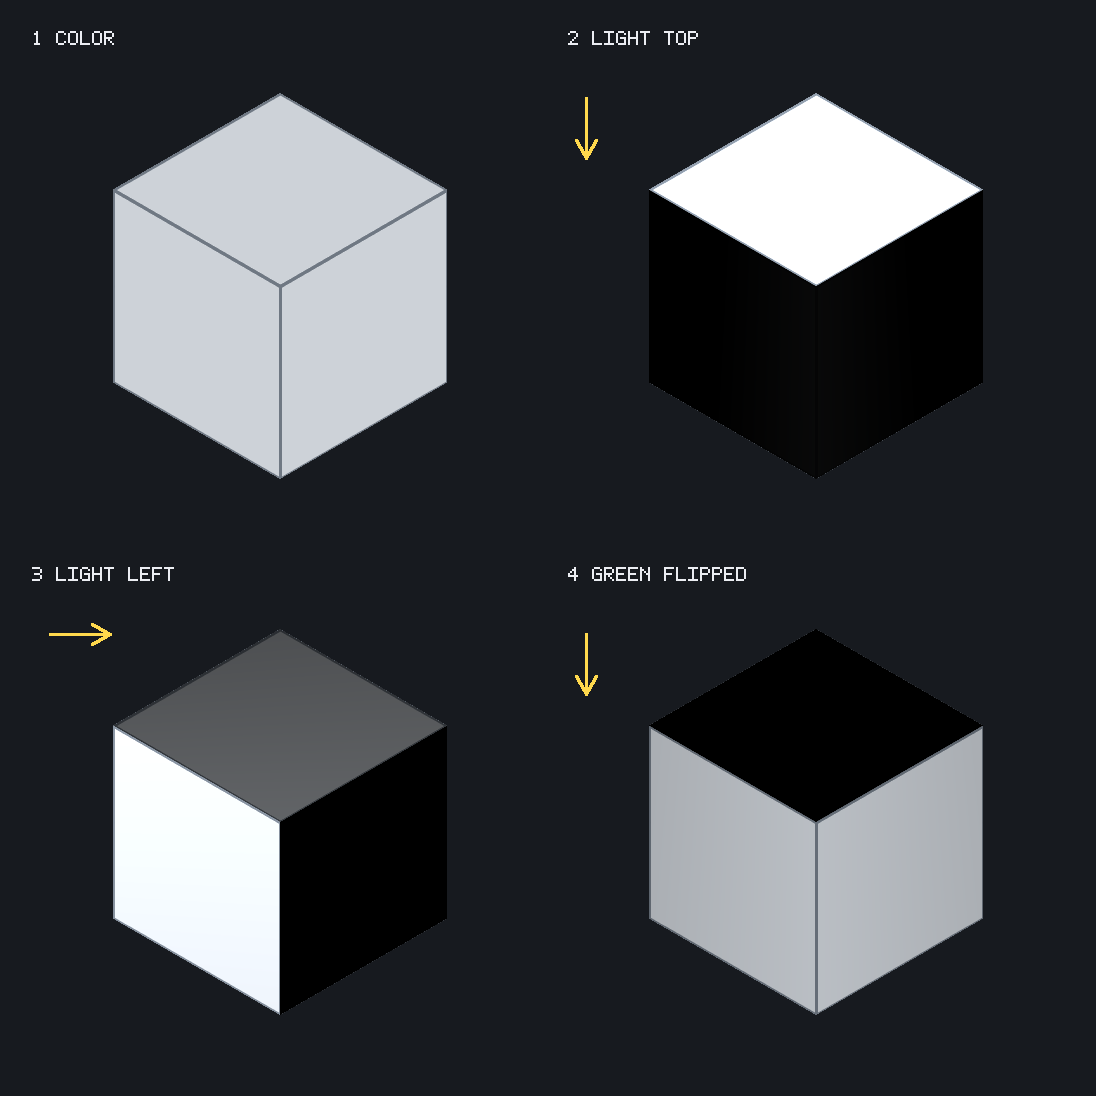
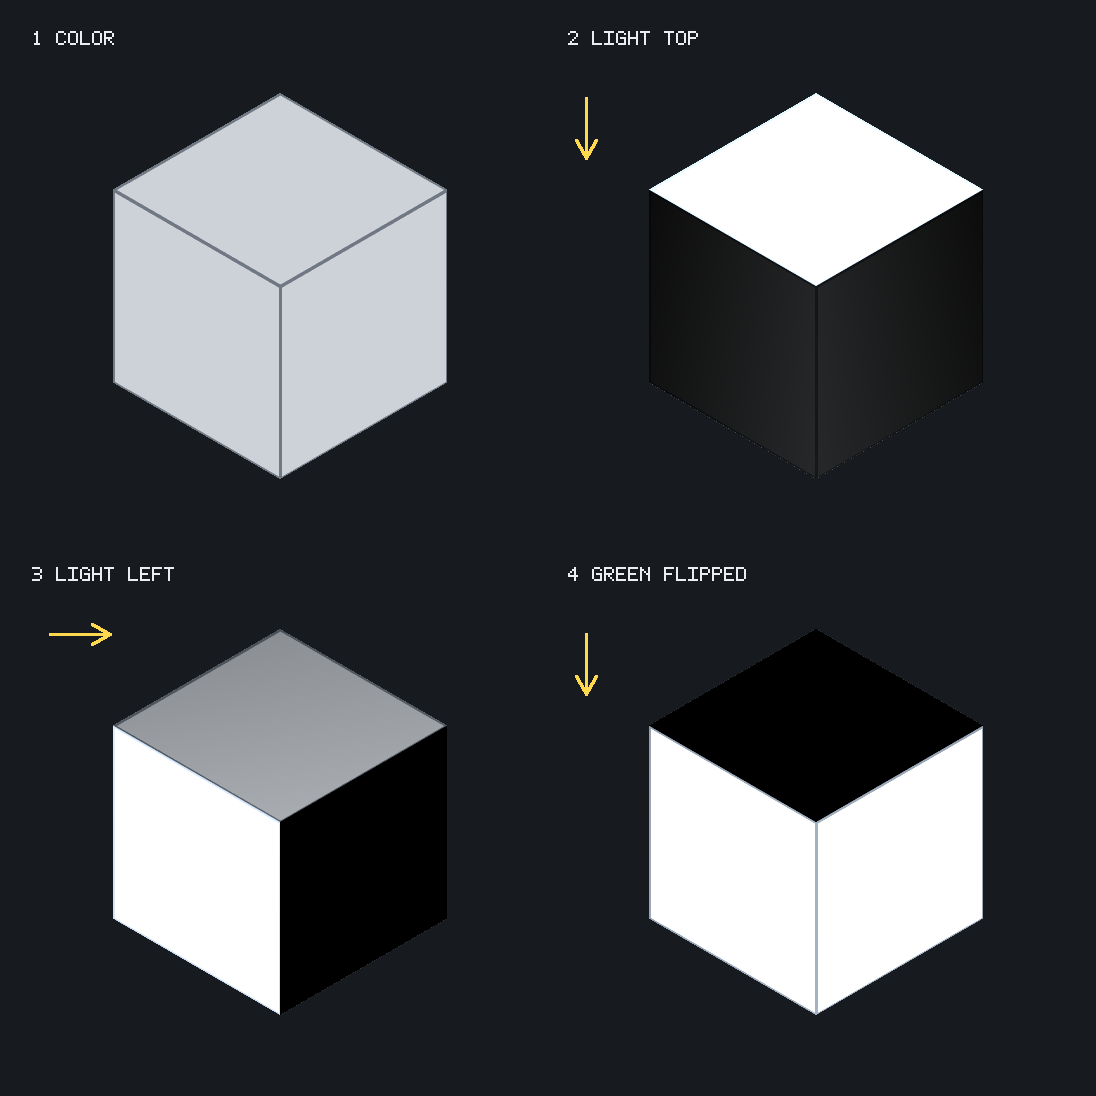
Свет: направление из настоящего смещения до пятна
Направление на свет собиралось из нормированной горизонтали (длина 1) и высоты
в пикселях (авто — половина радиуса). Вектор (±1, ±1, 120) — это свет строго
сверху для всей сцены: пятно гуляло, яркость менялась, а наклон поверхности к
свету оставался прежним. Поэтому карта нормалей выглядела нарисованной, блик
стоял на месте, шероховатость и металл ничего не показывали.

Теперь смещение до центра пятна и высота уходят в один normalize — в одних
единицах, пикселях холста. Заодно в ту же формулу приведён пример
normal-cube (лист-дебаг пересчитан).

Проверки: сторож текста шейдера (смещение не нормируется отдельно от высоты) и
числовой тест направления — прежняя формула давала разницу меньше 0.05 при
сдвиге пятна на ±200 px, новая — больше единицы.

Документация: DESIGN §о свете, MATERIALS §13, CHANGELOG.

diff --git a/src/render/lighting.ts b/src/render/lighting.ts
@@ -333,15 +333,14 @@ void main() {
     float a = mix(color0.a, color1.a, t) * cover;
     if (a <= 0.0005) continue;
 
-    // Направление на свет: по плоскости экрана и с высотой над холстом.
-    // Без высоты свет лежит плашмя, и блик получается плоским.
+    // Направление на свет: настоящее смещение до центра пятна плюс высота
+    // света — и то, и другое в пикселях холста. Горизонталь нельзя нормировать
+    // отдельно: единичный вектор против высоты в сотни пикселей даёт (0, 0, 1)
+    // для всей сцены, свет светит строго сверху, и карты нормалей, шероховатости
+    // и металла перестают отзываться на положение пятна — блик стоит на месте,
+    // рельеф выглядит нарисованным.
     vec2 toLight = center - p;
-    // «flat» — зарезервированное слово GLSL (квалификатор интерполяции): с ним
-    // шейдер не собирался, и весь проход объёма молча выключался. Переменная
-    // называется по смыслу — длина вектора до света.
-    float toLightLen = length(toLight);
-    vec2 flatDir = toLightLen > 0.001 ? toLight / toLightLen : vec2(0.0);
-    vec3 lightDir = normalize(vec3(flatDir, max(uLightExtra[i].x, 1.0)));
+    vec3 lightDir = normalize(vec3(toLight, max(uLightExtra[i].x, 1.0)));
     float delta = dot(n, lightDir) - lightDir.z;
     accum += delta * a * polarity;
 

diff --git a/docs/DESIGN.md b/docs/DESIGN.md
@@ -1379,8 +1379,13 @@ drawImage(image, -pivotPx.x, -pivotPx.y, width, height)
   наложения): он освещает объекты, а не пустое место, и в OBS не появляется
   цветной прямоугольник на прозрачном фоне.
 - У света есть **высота** (галка «половина радиуса» либо своё число в пикселях)
-  и **сила блика** 0…200 %. Высота двигает только блики: пятно от неё не
-  меняется, поэтому свет можно «поднять» над сценой, не перекраивая её.
+  и **сила блика** 0…200 %. Высота двигает только блики и рельеф: пятно от неё
+  не меняется, поэтому свет можно «поднять» над сценой, не перекраивая её.
+- Направление к свету считается из **настоящего смещения** до центра пятна и
+  высоты — в одних единицах, пикселях холста. Нормировать смещение отдельно
+  нельзя: единичный вектор против высоты в сотни пикселей даёт «свет строго
+  сверху» для всей сцены, и карты перестают отзываться на положение пятна
+  (блик стоит на месте, рельеф выглядит нарисованным).
 
 `normal` — карта нормалей у спрайта и медиа: файл (картинка или видео), сила
 объёма 0…200 % и признак «карта играет». У света, фигур и текста её нет:
@@ -1497,9 +1502,16 @@ diffuse  = albedo · (1 − metallic) · (ambient + Σ свет · mask · NdotL
 
 **Высота света** (`LightSpec.heightMode` / `height`) — где светильник висит над
 плоскостью холста. `"auto"` — половина радиуса (свет как бы на высоте своего
-пятна), `"manual"` — своё число в пикселях. Высота участвует только в
-направлении на свет, то есть **влияет на блики, а не на пятно**: старые сцены
-рисуются как раньше. Отдельно есть `specular` у света (0…200 %): один
+пятна), `"manual"` — своё число в пикселях. Высота вместе со смещением до центра
+пятна задаёт направление на свет, то есть **влияет на блики и рельеф, а не на
+пятно**. Пятно, форма и тень от высоты не меняются, значит свет можно поднять,
+не перекраивая сцену.
+
+Направление на свет — `normalize(vec3(toLight, height))`, где `toLight` — то же
+смещение в пикселях. Оба слагаемых живут в одной единице, иначе свет выродится
+в «строго сверху»: так и было до правки — горизонталь нормировалась до единицы,
+высота была в пикселях, и карты нормалей, шероховатости и металла не реагировали
+на положение пятна. Отдельно есть `specular` у света (0…200 %): один
 светильник может только затенять, другой — блистать.
 
 **Пресет — это список значений, а не режим.** Выпадающий список «нет / Матовый /

diff --git a/CHANGELOG.md b/CHANGELOG.md
@@ -10,6 +10,28 @@
 документам `docs/PLAN-0.2.md` … `docs/PLAN-0.5.md`; поколение ядра при этом
 посчитано задним числом — таблица в `docs/VERSIONS.md` §4.
 
+## 1.1.23.6.1.2.1 — правка 2026-10-28
+
+### Свет: направление считается по-настоящему
+
+- **Карты снова отзываются на положение пятна.** Направление на свет собиралось
+  из нормированной горизонтали (длина всегда 1) и высоты в пикселях (авто —
+  половина радиуса, у лампы 240 это 120). Вектор `(±1, ±1, 120)` — это свет
+  строго сверху для всей сцены: пятно гуляло, яркость менялась, а наклон
+  поверхности к свету оставался прежним. Поэтому карта нормалей выглядела
+  нарисованной, блик стоял на месте, шероховатость и металл ничего не
+  показывали.
+- Теперь смещение до центра пятна и высота уходят в один `normalize` — в одних
+  единицах, пикселях холста: `normalize(vec3(toLight, height))`. Сдвинул свет —
+  сменилась освещённая сторона, блик поехал за пятном, рельеф стал рельефом.
+- **Вид старых пресетов с картой нормалей изменится**: объём из «отпечатка»
+  стал направленным. Это и есть исправление — прежний вид был ошибкой.
+- Пример `examples/normal-cube` пересчитан той же формулой: лист-дебаг больше не
+  расходится с редактором.
+- Проверки: сторож текста шейдера (смещение не нормируется отдельно от высоты)
+  и числовой тест направления — при сдвиге пятна на ±200 px наклон меняется
+  больше чем на единицу, тогда как прежняя формула давала разницу меньше 0.05.
+
 ## 1.1.23.6.1.2.1 — 2026-10-28
 
 Новый модуль **«Цвет»** и первое место, где цвет перестаёт быть свойством

diff --git a/docs/MATERIALS.md b/docs/MATERIALS.md
@@ -438,9 +438,16 @@
 - поле **«Высота», px** — своё число, если галка снята;
 - ползунок **«Сила блика»** 0…200 % (см. §8).
 
-**На что влияет:** только на направление к свету, то есть **на блики**. Само
-пятно (яркость, форма, градиент, тень) от высоты не меняется — поэтому поднимать
-свет безопасно: сцена не поедет.
+**На что влияет:** только на направление к свету, то есть **на блики и
+рельеф**. Само пятно (яркость, форма, градиент, тень) от высоты не меняется —
+поэтому поднимать свет безопасно: сцена не поедет.
+
+Направление к свету — это настоящее смещение от точки до центра пятна плюс
+высота, и то и другое в пикселях холста. Значит, **карты отзываются на
+положение пятна**: сдвинул свет вправо — освещённой стала правая сторона,
+блик поехал за ним, шероховатость и металл проявились на тех участках, куда
+свет падает косо. Высота задаёт, насколько «сверху» светит лампа: чем выше,
+тем ровнее освещение и уже блик.
 
 | Высота | Блик |
 |---|---|
